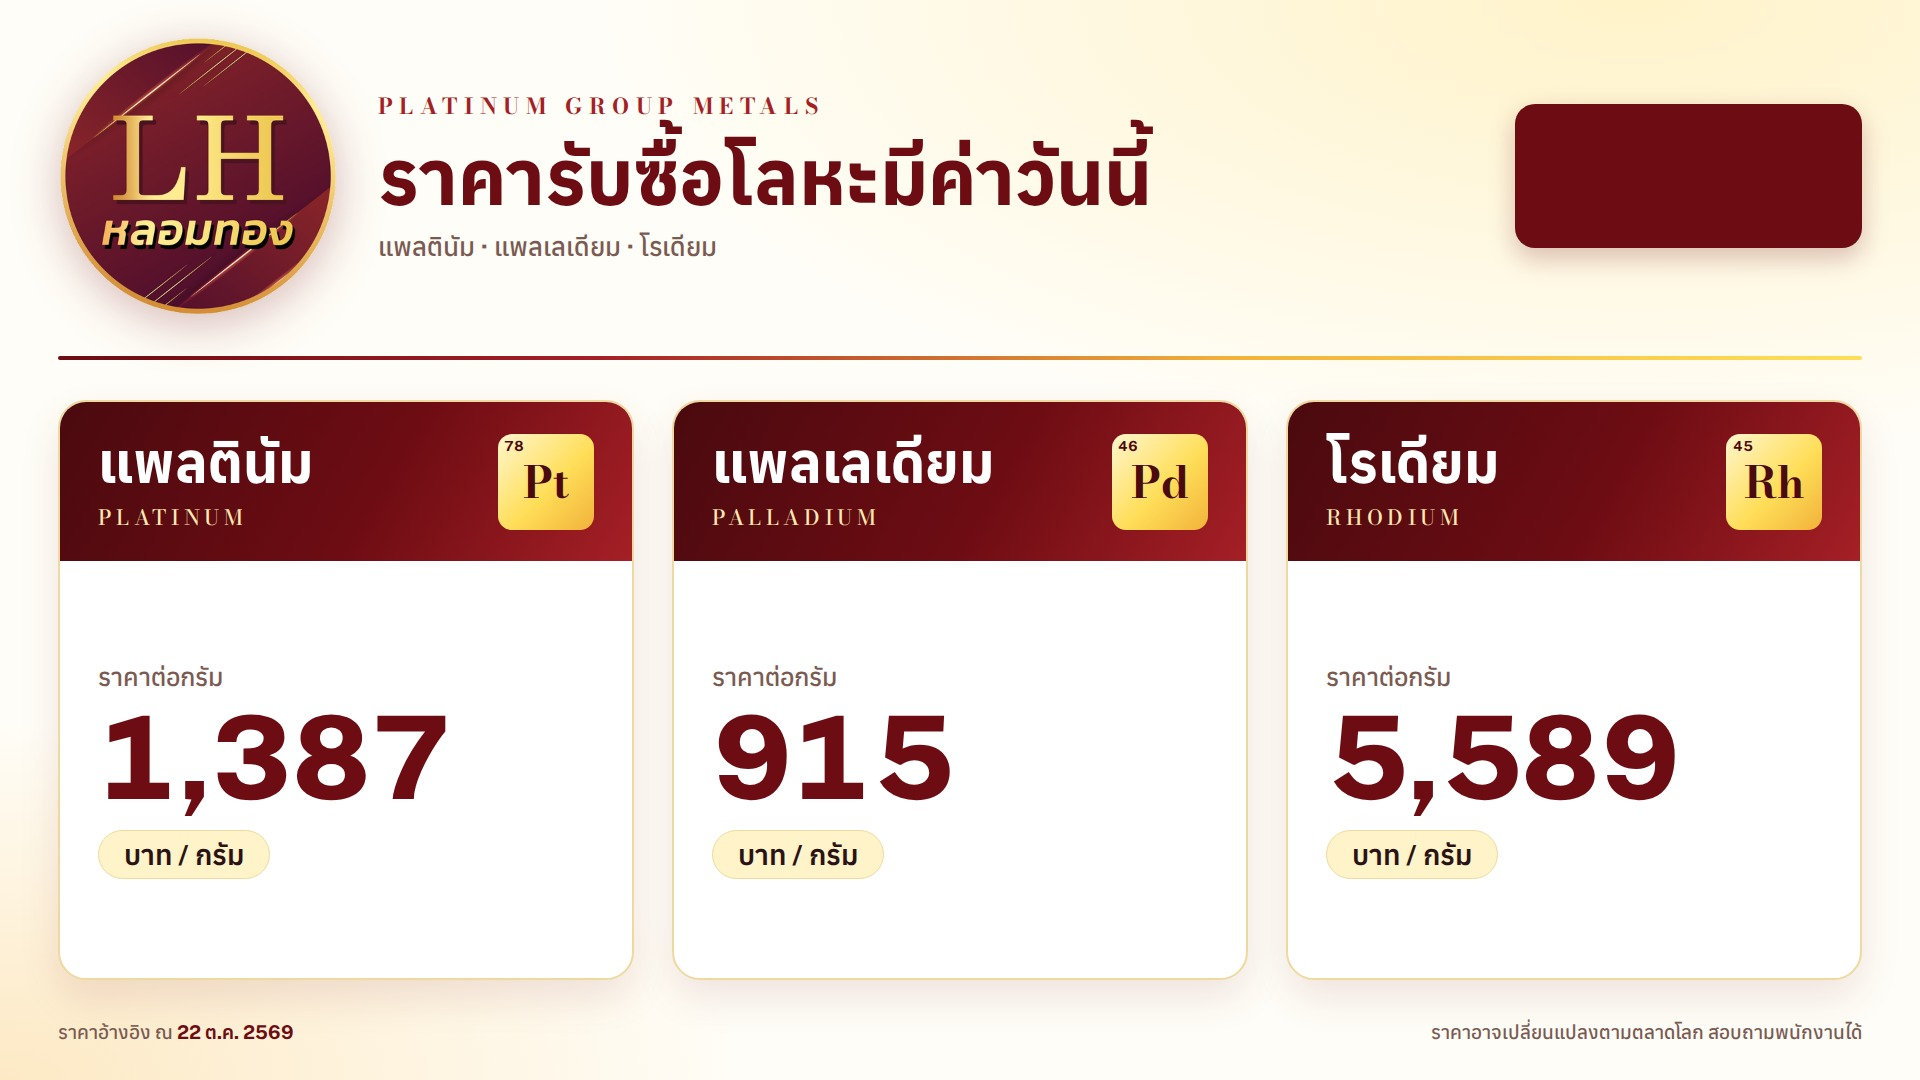
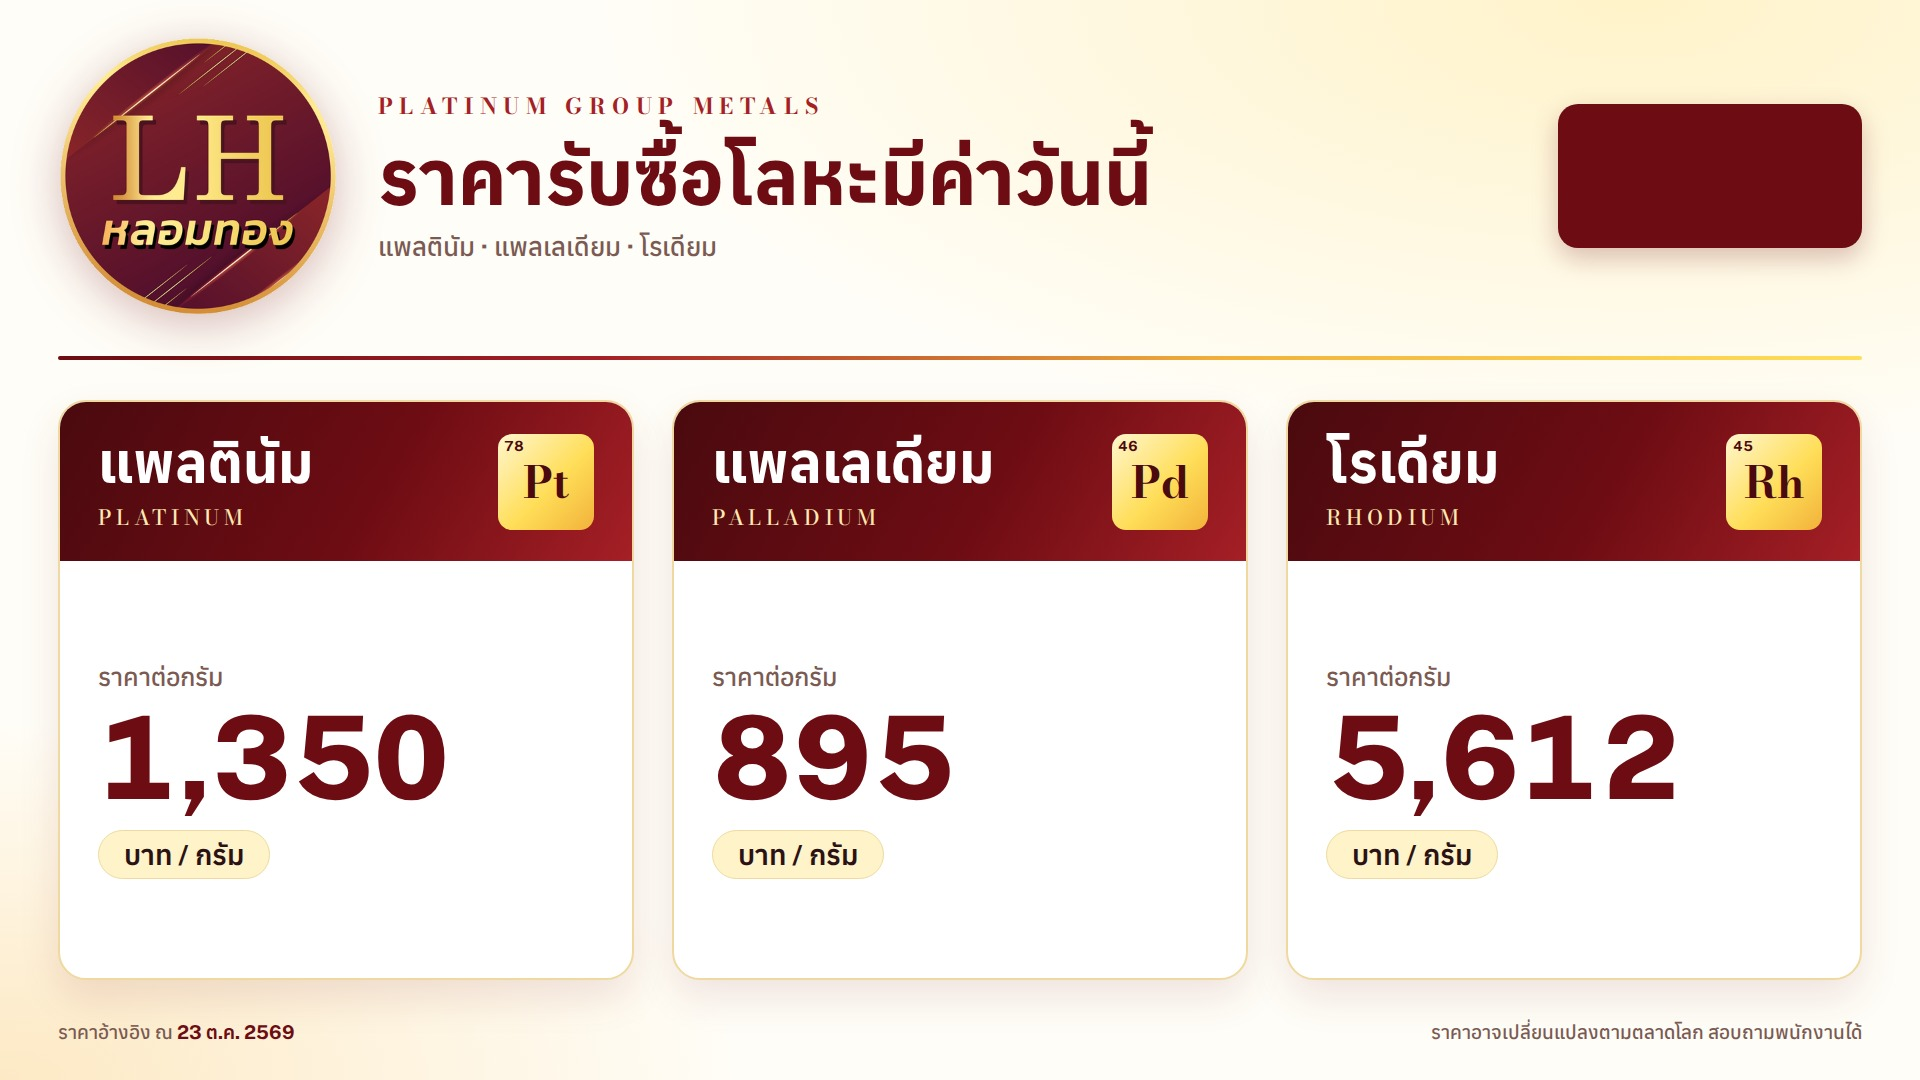
Update prices 2026-10-23

diff --git a/board.html b/board.html
@@ -211,14 +211,14 @@ html{-webkit-text-size-adjust:100%;text-size-adjust:100%}
      ราคาแต่ละเกรด = ราคาเงินหลังหัก × เปอร์เซ็นต์ (99.99% ใช้ราคาเต็ม)
    showSilver = เปิด/ปิดหน้าราคาเงิน, rotateSeconds = เปลี่ยนหน้าทุกกี่วินาที */
 const CONFIG = {
-  asOf: "22 ต.ค. 2569",
-  fx: 33.59,
+  asOf: "23 ต.ค. 2569",
+  fx: 33.73,
   discount: 0.20,
   rotateSeconds: 15,
   showSilver: true,
   metals: [
-    { th:"แพลตินัม",  en:"Platinum",  sym:"Pt", z:78, usdPerGram:51.6019 },
-    { th:"แพลเลเดียม", en:"Palladium", sym:"Pd", z:46, usdPerGram:34.0476 },
+    { th:"แพลตินัม",  en:"Platinum",  sym:"Pt", z:78, usdPerGram:50.0265 },
+    { th:"แพลเลเดียม", en:"Palladium", sym:"Pd", z:46, usdPerGram:33.1795 },
     { th:"โรเดียม",    en:"Rhodium",   sym:"Rh", z:45, usdPerGram:277.3, discount:0.40 }
   ],
   silver: { pricePerKg: 55000, grades: [95, 92.5, 90, 70, 50, 30] }
